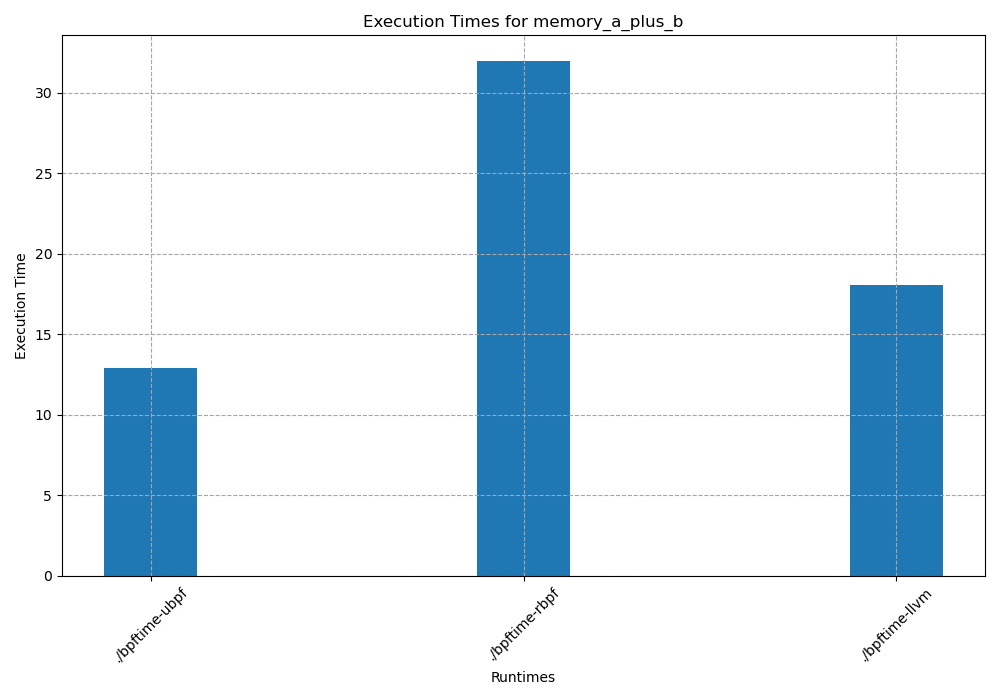
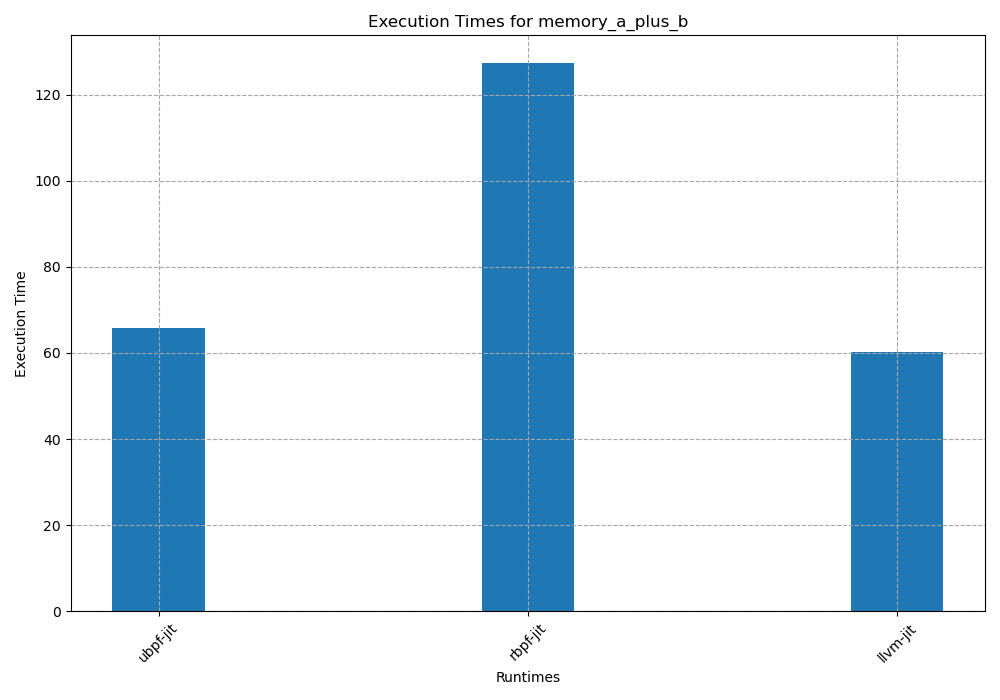
fix image

diff --git a/example-output/plot.py b/example-output/plot.py
@@ -77,7 +77,7 @@ for exe, exe_results in zip(executables, results):
             plot_data[test["name"]] = {}
         plot_data[test["name"]][exe] = test["exec_usage"]
 
-selected_runtimes = ['./bpftime-ubpf', './bpftime-rbpf', './bpftime-llvm']
+selected_runtimes = ['ubpf-jit', 'rbpf-jit', 'llvm-jit']
 
 # Plot Execution Usage
 bar_width = 0.25
@@ -114,44 +114,69 @@ for exe, exe_results in zip(executables, results):
         if test["name"] not in plot_data:
             plot_data[test["name"]] = {}
         plot_data[test["name"]][exe] = test["exec_usage"]
+selected_runtimes = ['ubpf-jit', 'rbpf-jit', 'llvm-jit', '<WASM>', "<NATIVE>"]
 
-selected_runtimes = ['./bpftime-ubpf', './bpftime-rbpf', './bpftime-llvm', '<WASM>', "<NATIVE>"]
-
-# Determine the number of rows and columns for subplots
+# 确定子图的行和列数
 num_tests = len(plot_data)
-num_rows = (num_tests + 1) // 2
-num_cols = 2 if num_tests > 1 else 1
+num_rows = 1
+num_cols = num_tests
 
-fig, axes = plt.subplots(num_rows, num_cols, figsize=(20, 5 * num_rows))
+# 设置更大的图表尺寸以提高可读性
+fig, axes = plt.subplots(num_rows, num_cols, figsize=(20, 6))
 if num_tests == 1:
     axes = np.array([axes])
-
-# Plot Execution Usage
-bar_width = 0.25
+bar_width = 0.20 # 适当减小条形宽度以增加空间
 indices = np.arange(len(selected_runtimes))
-colors = plt.cm.viridis(np.linspace(0, 1, len(selected_runtimes)))
+colors = plt.cm.tab10(np.linspace(0, 1, len(selected_runtimes))) # 使用tab10颜色图提供更好的颜色对比
+
+i = 0
 
 for ax, (test_name, runtimes_data) in zip(axes.ravel(), plot_data.items()):
-    
+
     values = [runtimes_data.get(exe, 0) for exe in selected_runtimes]
+
+    # 更新显示名称
+    display_names = [exe.replace('llvm-jit', 'llvm jit') for exe in selected_runtimes]
+
     bars = ax.bar(indices, values, width=bar_width, color=colors)
-    
-    ax.set_title(f"Execution Times for {test_name}", fontsize=16)
-    ax.set_xlabel("Runtimes", fontsize=14)
-    ax.set_ylabel("Execution Time", fontsize=14)
-    ax.set_xticks(indices)
-    ax.set_xticklabels(selected_runtimes, rotation=45, fontsize=12)
-    ax.grid(True, which="both", ls="--", c="0.65")
+     # 只在第一个子图上添加Y轴标签和网格线
+    if i == 0:
+        ax.set_ylabel("Execution Time(ns)", fontsize=18)
+        ax.grid(True, which="both", ls="--", c="0.8")
+        i = 1
+    else:
+        ax.grid(False)  # 其他子图不显示网格线
+        
+
+    # 添加数据标签
+    # for bar in bars:
+    #     height = bar.get_height()
+    #     ax.annotate(f'{height:.0f}',
+    #                 xy=(bar.get_x() + bar.get_width() / 2, height),
+    #                 xytext=(0, 3),  # 3点偏移
+    #                 textcoords="offset points",
+    #                 ha='center', va='bottom')
+
+    ax.set_title(f"{test_name.replace('_', ' ').title()}", fontsize=18)
+    # ax.set_xticks(indices)
+    # ax.set_xticklabels(display_names, rotation=45, fontsize=14)
+    # ax.grid(True, which="both", ls="--", c="0.8") # 更轻的网格线
     ax.spines['top'].set_visible(False)
     ax.spines['right'].set_visible(False)
-    ax.spines['bottom'].set_color('#DDDDDD')
     ax.spines['left'].set_color('#DDDDDD')
-    ax.tick_params(bottom=False, left=False)
+    ax.spines['bottom'].set_color('#DDDDDD')
+    # ax.tick_params(bottom=False, left=False)
     ax.set_axisbelow(True)
-    
-    # Add legends (assuming you have more data for distribution)
-    # ax.legend(bars, ["Runtime 1", "Runtime 2", ...], fontsize=12)
+    # ax.set_ylabel("Execution Time", fontsize=16)
 
-plt.tight_layout()
-plt.savefig("merged_execution_times.png")
+# 自动调整子图间距，确保标签和标题不会重叠
+plt.tight_layout(pad=3.0)
+
+# 可以选择将图例放在图表下方
+handles = [plt.Rectangle((0,0),1,1, color=colors[i]) for i in range(len(selected_runtimes))]
+labels = [name.replace('llvm-jit', 'llvm jit') for name in selected_runtimes]
+plt.legend(handles, labels, bbox_to_anchor=(0.5, -0.03), loc='upper right',
+           ncol=len(selected_runtimes), frameon=False, fontsize=18)
+
+plt.savefig("optimized_execution_times.png")
 plt.show()
